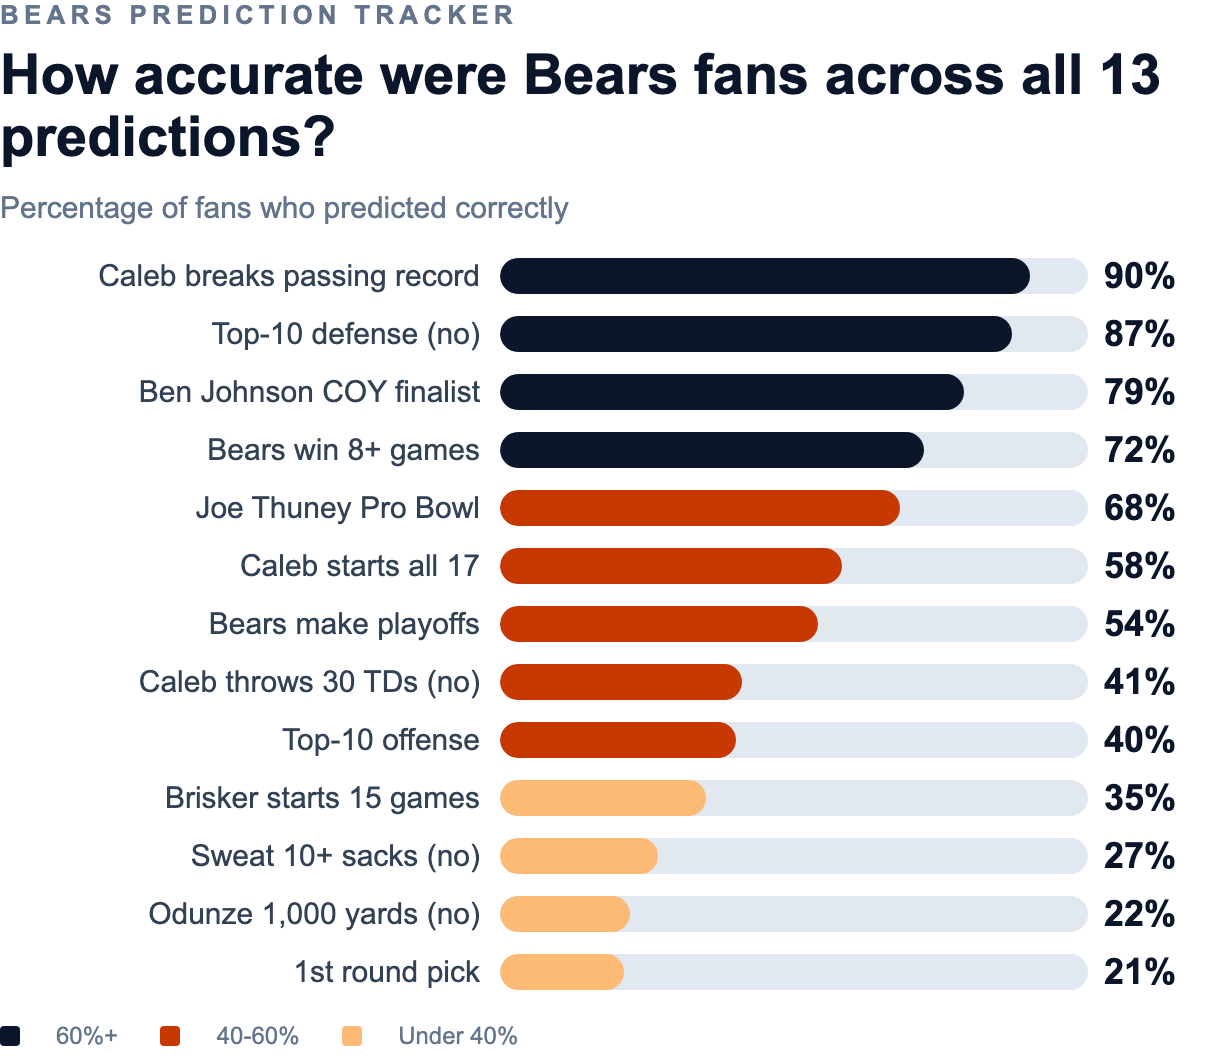
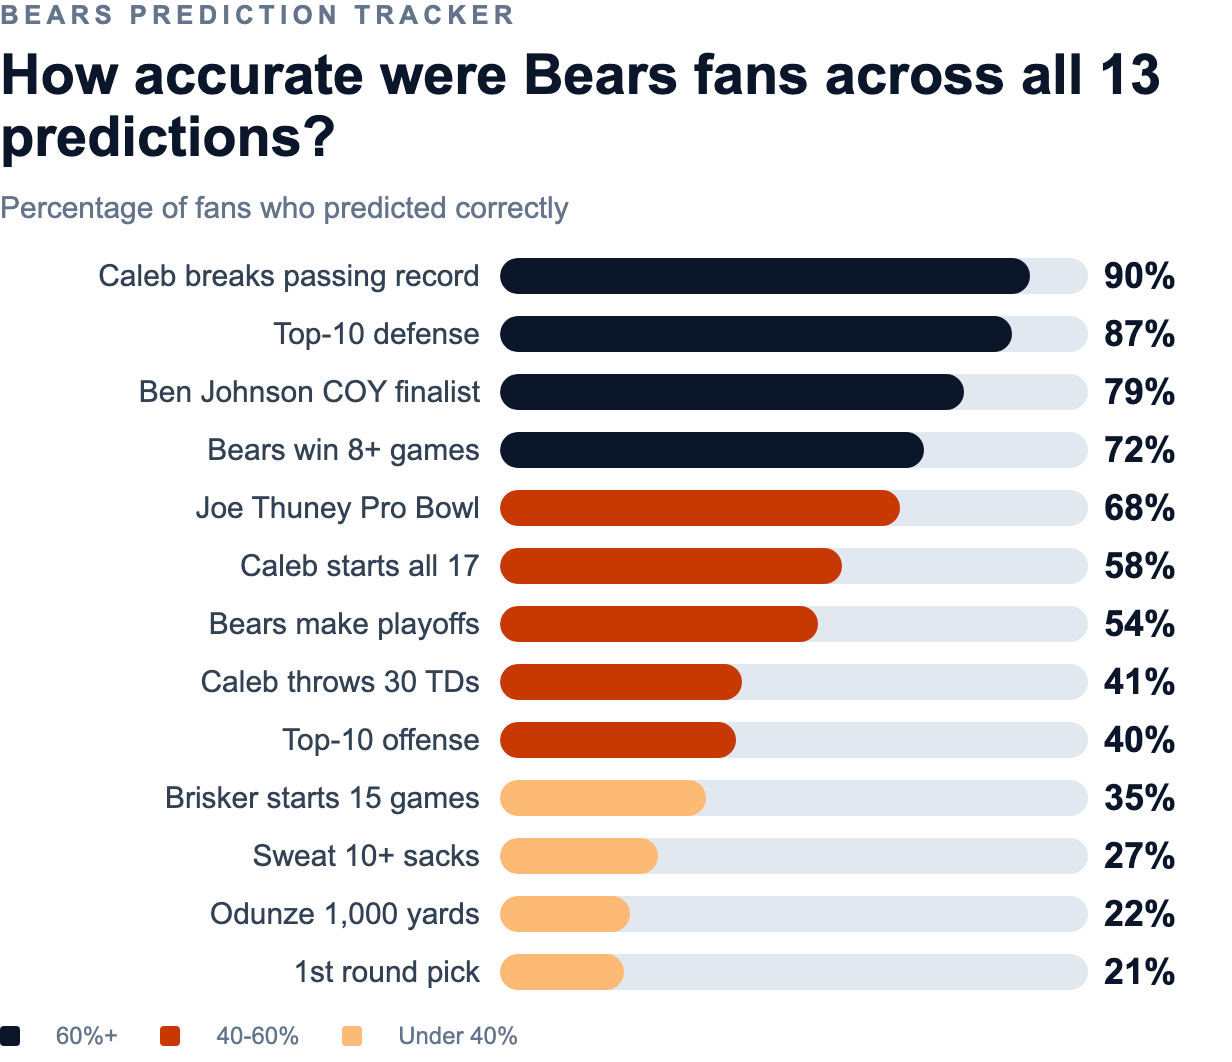
email: align recap labels and draft card

Changed region(s): [[0.1234, 0.7768, 0.401, 0.8701], [0.1234, 0.6215, 0.401, 0.6525], [0.1851, 0.2797, 0.401, 0.3418]]

diff --git a/email-drafts/season-recap-assets/community-accuracy.html b/email-drafts/season-recap-assets/community-accuracy.html
@@ -125,7 +125,7 @@
         </div>
       </div>
       <div class="row">
-        <div class="label">Top-10 defense (no)</div>
+        <div class="label">Top-10 defense</div>
         <div class="bar-wrap">
           <span class="bar-track"><span class="bar-fill" style="display:block;width:87%;background:#0b162a;"></span></span>
           <span class="pct">87%</span>
@@ -167,7 +167,7 @@
         </div>
       </div>
       <div class="row">
-        <div class="label">Caleb throws 30 TDs (no)</div>
+        <div class="label">Caleb throws 30 TDs</div>
         <div class="bar-wrap">
           <span class="bar-track"><span class="bar-fill" style="display:block;width:41%;background:#c83803;"></span></span>
           <span class="pct">41%</span>
@@ -188,14 +188,14 @@
         </div>
       </div>
       <div class="row">
-        <div class="label">Sweat 10+ sacks (no)</div>
+        <div class="label">Sweat 10+ sacks</div>
         <div class="bar-wrap">
           <span class="bar-track"><span class="bar-fill" style="display:block;width:27%;background:#fdba74;"></span></span>
           <span class="pct">27%</span>
         </div>
       </div>
       <div class="row">
-        <div class="label">Odunze 1,000 yards (no)</div>
+        <div class="label">Odunze 1,000 yards</div>
         <div class="bar-wrap">
           <span class="bar-track"><span class="bar-fill" style="display:block;width:22%;background:#fdba74;"></span></span>
           <span class="pct">22%</span>

diff --git a/email-drafts/season-recap-assets/draft-question-live.html b/email-drafts/season-recap-assets/draft-question-live.html
@@ -39,10 +39,24 @@
         text-transform: uppercase;
       }
       h1 {
-        margin: 18px 0 18px;
-        font-size: 34px;
-        line-height: 1.18;
+        margin: 18px 0 16px;
+        font-size: 31px;
+        line-height: 1.16;
         color: #0b162a;
+      }
+      .hero {
+        margin: 0 0 18px;
+        padding: 14px;
+        border: 1px solid #dbe4ef;
+        border-radius: 18px;
+        background: #ffffff;
+        text-align: center;
+      }
+      .hero img {
+        width: 108px;
+        height: 108px;
+        object-fit: contain;
+        display: inline-block;
       }
       .options {
         margin: 0;
@@ -80,7 +94,10 @@
         <p class="eyebrow">Bears Prediction Tracker</p>
         <p class="status">Live now</p>
       </div>
-      <h1>Who will the Chicago Bears select with the 25th pick?</h1>
+      <div class="hero">
+        <img src="../../src/assets/NFL_Draft_logo.jpg" alt="NFL Draft logo" />
+      </div>
+      <h1>What position will the Bears select with the 25th pick?</h1>
       <ul class="options">
         <li class="option">Defensive Line</li>
         <li class="option">Linebacker</li>

diff --git a/src/components/SeasonRecap.tsx b/src/components/SeasonRecap.tsx
@@ -12,17 +12,17 @@ import { ANALYTICS_EVENTS, captureEvent } from '../lib/analytics';
 
 const revisedAccuracyRows = [
   { label: 'Caleb breaks passing record', pct: 90 },
-  { label: 'Top-10 defense (no)', pct: 87 },
+  { label: 'Top-10 defense', pct: 87 },
   { label: 'Ben Johnson COY finalist', pct: 79 },
   { label: 'Bears win 8+ games', pct: 72 },
   { label: 'Joe Thuney Pro Bowl', pct: 68 },
   { label: 'Caleb starts all 17', pct: 58 },
   { label: 'Bears make playoffs', pct: 54 },
-  { label: 'Caleb throws 30 TDs (no)', pct: 41 },
+  { label: 'Caleb throws 30 TDs', pct: 41 },
   { label: 'Top-10 offense', pct: 40 },
   { label: 'Brisker starts 15 games', pct: 35 },
-  { label: 'Sweat 10+ sacks (no)', pct: 27 },
-  { label: 'Odunze 1,000 yards (no)', pct: 22 },
+  { label: 'Sweat 10+ sacks', pct: 27 },
+  { label: 'Odunze 1,000 yards', pct: 22 },
   { label: '1st round pick', pct: 21 }
 ];
 

diff --git a/src/components/AccuracyChart.tsx b/src/components/AccuracyChart.tsx
@@ -1,16 +1,16 @@
 const predictions = [
   { label: 'Caleb breaks passing record', pct: 90 },
-  { label: 'Top-10 defense (no)', pct: 87 },
+  { label: 'Top-10 defense', pct: 87 },
   { label: 'Ben Johnson COY finalist', pct: 79 },
   { label: 'Bears win 8+ games', pct: 72 },
   { label: 'Joe Thuney Pro Bowl', pct: 68 },
   { label: 'Caleb starts all 17', pct: 58 },
   { label: 'Bears make playoffs', pct: 54 },
-  { label: 'Caleb throws 30 TDs (no)', pct: 41 },
+  { label: 'Caleb throws 30 TDs', pct: 41 },
   { label: 'Top-10 offense', pct: 40 },
   { label: 'Brisker starts 15 games', pct: 35 },
-  { label: 'Sweat 10+ sacks (no)', pct: 27 },
-  { label: 'Odunze 1,000 yards (no)', pct: 22 },
+  { label: 'Sweat 10+ sacks', pct: 27 },
+  { label: 'Odunze 1,000 yards', pct: 22 },
   { label: '1st round pick', pct: 21 }
 ];
 

diff --git a/src/components/AdminEmailDashboard.tsx b/src/components/AdminEmailDashboard.tsx
@@ -85,14 +85,14 @@ const buttonToneOptions: Array<{ value: EmailButtonTone; label: string }> = [
 ];
 
 function getImageBlockWidthClass(width: EmailImageWidth) {
-  if (width === 'medium') return 'max-w-[72%]';
-  if (width === 'wide') return 'max-w-[92%]';
+  if (width === 'medium') return 'max-w-[78%]';
+  if (width === 'wide') return 'max-w-[96%]';
   return 'max-w-full';
 }
 
 function getImageBlockWidthPercent(width: EmailImageWidth) {
-  if (width === 'medium') return '72%';
-  if (width === 'wide') return '92%';
+  if (width === 'medium') return '78%';
+  if (width === 'wide') return '96%';
   return '100%';
 }
 

diff --git a/src/lib/emailComposer.ts b/src/lib/emailComposer.ts
@@ -67,7 +67,7 @@ export const EMAIL_CTA_LINKS = {
     'https://bearsprediction.com/?auth=login&redirect=%2F%3Fseason%3D2026%26category%3Ddraft_predictions%26question%3Df6a8dc28-c6d7-4ba2-9492-437292ec0d2f',
 } as const;
 
-const EMAIL_ASSET_VERSION = '2026-03-30-5';
+const EMAIL_ASSET_VERSION = '2026-03-30-6';
 
 export const EMAIL_IMAGE_URLS = {
   hero: 'https://bearsprediction.com/email/recap-2025/hero.jpg',
